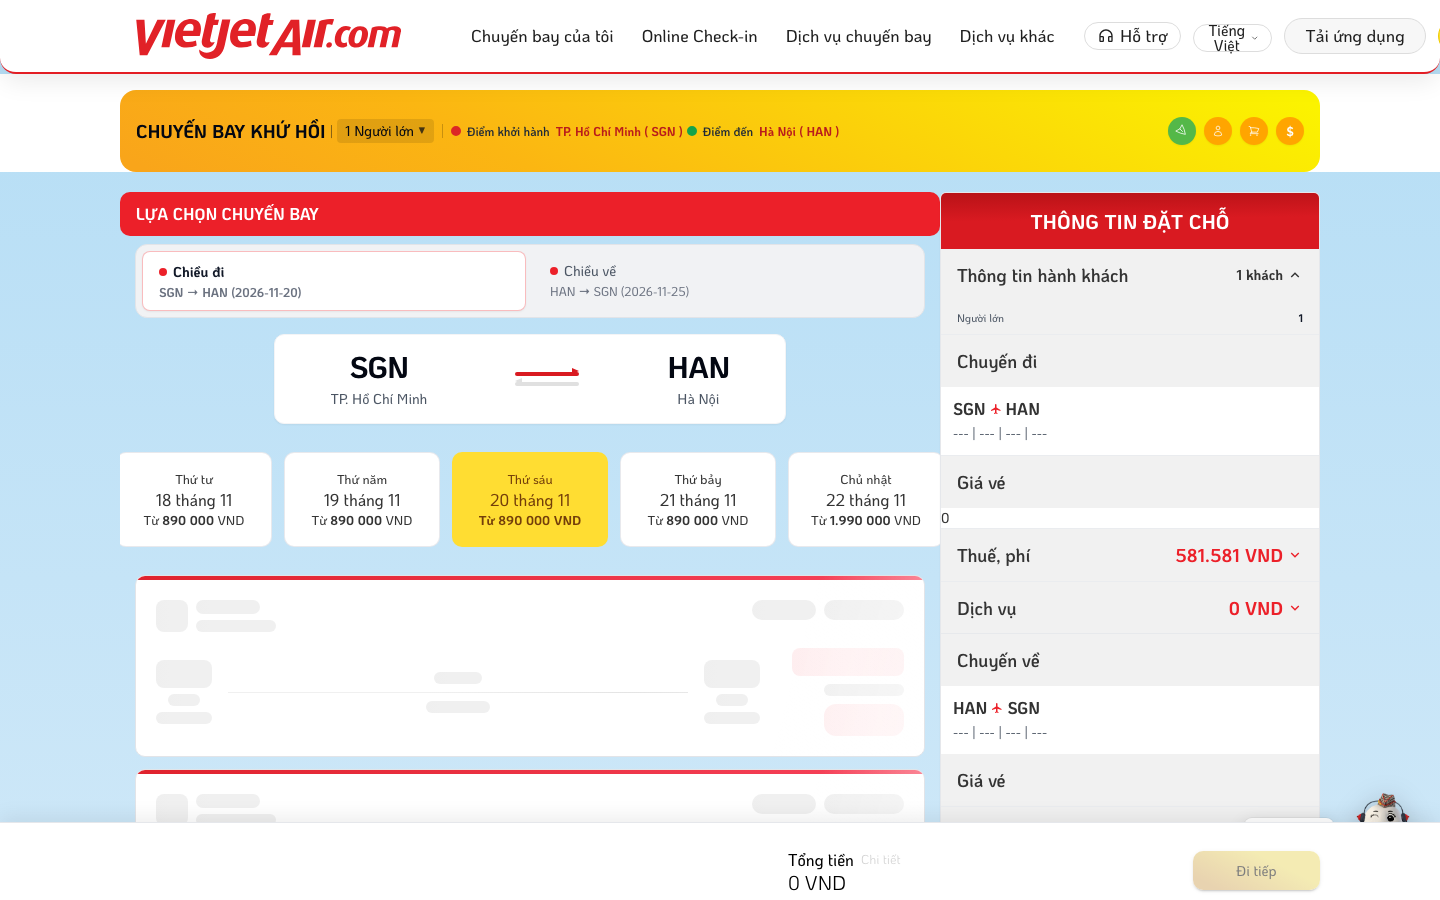
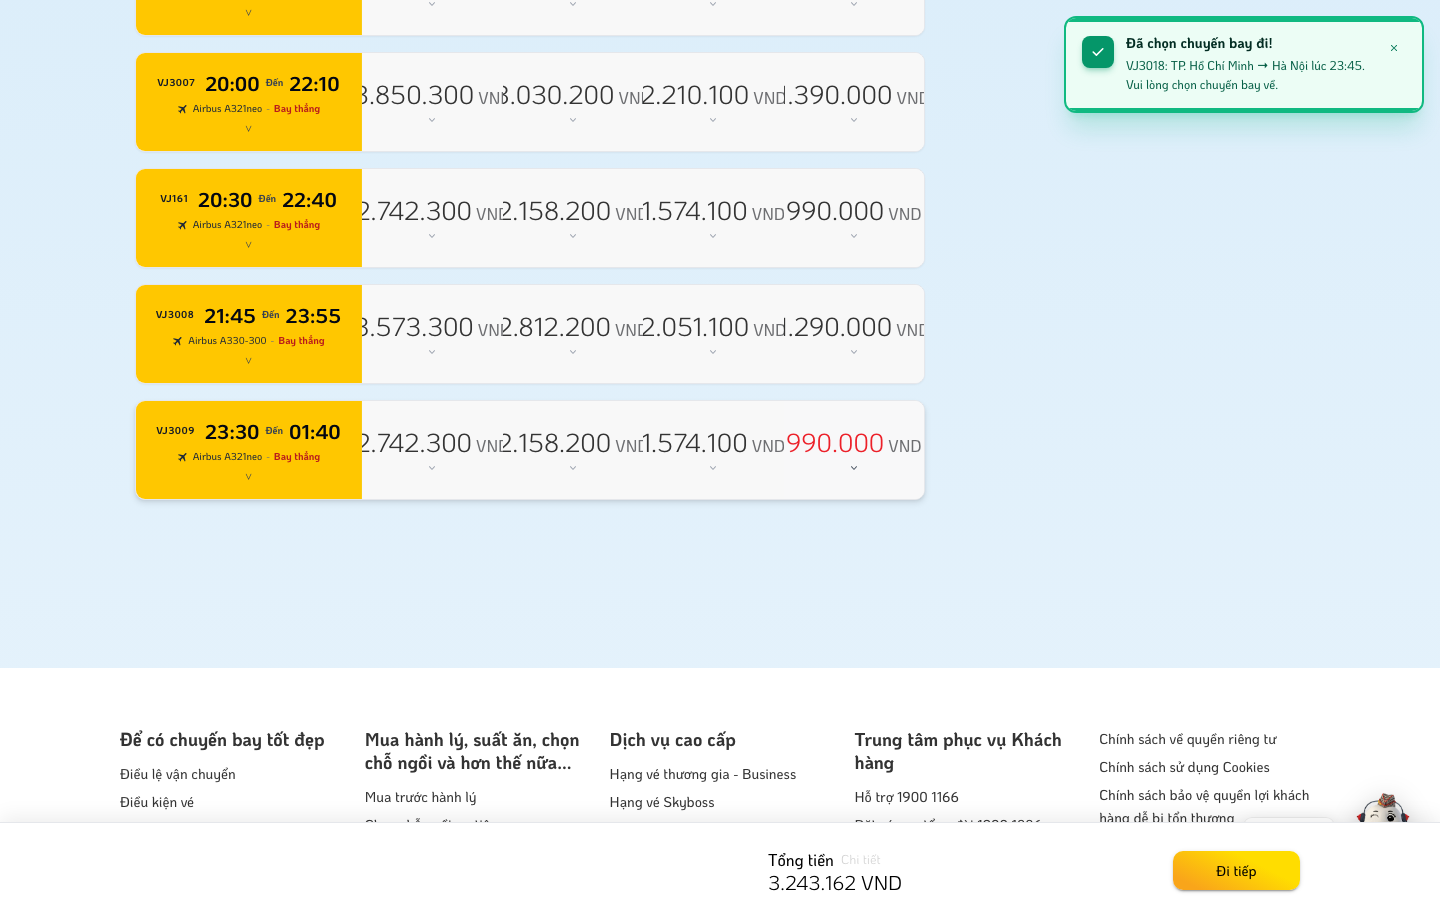
fix(booking): resolve passenger input overlap, mobile fare wrap, and step validation in round-trip flow

diff --git a/vietjetsim-main/src/features/bookings/components/PassengerInfoStep.tsx b/vietjetsim-main/src/features/bookings/components/PassengerInfoStep.tsx
@@ -117,11 +117,9 @@ export default function PassengerInfoStep({
   });
 
   const updatePassenger = (i: number, field: keyof Passenger, value: string) => {
-    setPassengers((prev) => {
-      const next = prev.map((p, idx) => (idx === i ? { ...p, [field]: value } : p));
-      onPassengersChange?.(next);
-      return next;
-    });
+    const next = passengers.map((p, idx) => (idx === i ? { ...p, [field]: value } : p));
+    setPassengers(next);
+    onPassengersChange?.(next);
   };
 
   const addPassenger = (type: PassengerType) => {
@@ -405,7 +403,7 @@ export default function PassengerInfoStep({
                       <div>
                         <UnderlineField
                           id={`passenger-${i}-name`}
-                          label="Họ và tên"
+                          label="Họ (Theo giấy tờ tuỳ thân)"
                           filled={!!p.name}
                         >
                           <input
@@ -414,7 +412,6 @@ export default function PassengerInfoStep({
                             type="text"
                             value={p.name}
                             onChange={(e) => updatePassenger(i, 'name', e.target.value)}
-                            placeholder="Họ (Theo giấy tờ tuỳ thân)"
                             required
                           />
                         </UnderlineField>
@@ -450,7 +447,7 @@ export default function PassengerInfoStep({
                       <UnderlineField
                         id={`passenger-${i}-dob`}
                         label="Ngày sinh (DD/MM/YYYY)"
-                        filled={!!p.dob}
+                        filled
                       >
                         <input
                           id={`passenger-${i}-dob`}
@@ -622,7 +619,6 @@ export default function PassengerInfoStep({
                               event.target.value.toUpperCase().replace(/\s/g, '')
                             )
                           }
-                          placeholder="SJxxxxxxxxxx"
                           pattern="SJ[0-9]{8,10}"
                           title="Mã SkyJoy gồm SJ và 8–10 chữ số"
                         />

diff --git a/vietjetsim-main/src/test/vietjet-parity-layout.test.ts b/vietjetsim-main/src/test/vietjet-parity-layout.test.ts
@@ -36,9 +36,7 @@ function ruleValue(selector: string, property: string): string {
   while ((match = ruleRe.exec(CSS_RULES)) !== null) {
     const selectors = match[1].split(',').map((part) => part.trim());
     if (!selectors.includes(selector)) continue;
-    const propertyMatch = match[2].match(
-      new RegExp(`(?:^|;)\\s*${property}:\\s*([^;]+)`)
-    );
+    const propertyMatch = match[2].match(new RegExp(`(?:^|;)\\s*${property}:\\s*([^;]+)`));
     if (!propertyMatch) {
       throw new Error(`Rule ${selector} không khai báo ${property}`);
     }
@@ -71,9 +69,7 @@ describe('Token popup SkyID (622×664) — đo 14/11/2026', () => {
 
   it('gradient băng đỏ khớp site thật', () => {
     const gradient = token('vj-popup-header-gradient').replace(/\s+/g, '');
-    expect(gradient).toBe(
-      'linear-gradient(rgb(217,26,33)34.8%,rgb(171,3,3)182.34%)'
-    );
+    expect(gradient).toBe('linear-gradient(rgb(217,26,33)34.8%,rgb(171,3,3)182.34%)');
   });
 });
 
@@ -109,7 +105,9 @@ describe('Ô nhập tra cứu (underline MUI 40px) — đo 14/11/2026', () => {
   });
 
   it('focus đổi gạch chân thành 2px đỏ thương hiệu', () => {
-    expect(ruleValue('.vj-lookup-field .vj-lookup-input:focus', 'border-bottom')).toContain('2px solid');
+    expect(ruleValue('.vj-lookup-field .vj-lookup-input:focus', 'border-bottom')).toContain(
+      '2px solid'
+    );
   });
 });
 

diff --git a/vietjetsim-main/src/app/chuyen-bay-cua-toi/page.tsx b/vietjetsim-main/src/app/chuyen-bay-cua-toi/page.tsx
@@ -498,10 +498,7 @@ export default function MyFlightsPage() {
                             </button>
                             <p className="text-sm leading-[20px] text-[var(--vj-text)]">
                               Bạn đã biết về Vietjet SkyJoy?{' '}
-                              <Link
-                                href="/dang-ky"
-                                className="vj-skyjoy-register-link"
-                              >
+                              <Link href="/dang-ky" className="vj-skyjoy-register-link">
                                 Đăng ký ngay
                               </Link>
                             </p>
@@ -606,10 +603,7 @@ export default function MyFlightsPage() {
                             </button>
                             <p className="text-sm leading-[20px] text-[var(--vj-text)]">
                               Bạn đã biết về Vietjet SkyJoy?{' '}
-                              <Link
-                                href="/dang-ky"
-                                className="vj-skyjoy-register-link"
-                              >
+                              <Link href="/dang-ky" className="vj-skyjoy-register-link">
                                 Đăng ký ngay
                               </Link>
                             </p>

diff --git a/vietjetsim-main/src/app/tim-ve/components/FlightBookingResultsWrapper.tsx b/vietjetsim-main/src/app/tim-ve/components/FlightBookingResultsWrapper.tsx
@@ -187,7 +187,6 @@ export default function FlightBookingResultsWrapper({
 
   const handleContinue = useCallback(() => {
     setContinueSignal((n) => n + 1);
-    setBookingStep((prev) => prev + 1);
   }, []);
 
   const [outboundFrom, outboundTo] = trip.split('→').map((part) => part.trim());
@@ -546,7 +545,9 @@ export default function FlightBookingResultsWrapper({
               khối giữa — tức nó thẳng hàng với dòng "Tổng tiền", lệch
               phải ~73px, KHÔNG nằm giữa hai khối. */}
           <div className="vj-total-bar hidden sm:block fixed bottom-0 left-0 right-0 z-[60] border-t border-gray-200 shadow-[0_-4px_20px_rgba(0,0,0,0.08)]">
-            <div className="vj-total-bar-inner mx-auto max-w-[1200px] pl-[10px]">
+            {/* Site thật: container 1200px (x=120), padding trong `10px`, lề phải
+                `20px` → cụm "Tổng tiền" tại x=769, nút "Đi tiếp" 127×39 tại x=1173. */}
+            <div className="vj-total-bar-inner mx-auto max-w-[1200px] pl-[10px] pr-[20px]">
               {/* Thanh trống giữ layout 3 cột như site thật */}
               <div aria-hidden="true" className="flex-1" />
               <div className="relative w-[405px] shrink-0">

diff --git a/vietjetsim-main/src/features/flights/components/FlightResultsStep.tsx b/vietjetsim-main/src/features/flights/components/FlightResultsStep.tsx
@@ -1400,14 +1400,14 @@ export default function FlightResultsStep({
                             {/* Giá vé: số tiền 26px/400 JambonoMedium #333333,
                                 mã tiền tệ 16px/500 #6D6E71 (đo 13/11/2026). */}
                             <span
-                              className={`text-xl5 font-jambono font-normal leading-none whitespace-nowrap transition-colors ${
+                              className={`text-xs sm:text-base lg:text-xl5 font-jambono font-normal leading-none whitespace-nowrap transition-colors ${
                                 isSelected
                                   ? 'text-primary'
                                   : 'text-vj-text group-hover:text-primary'
                               }`}
                             >
                               {fc.price.toLocaleString('vi-VN')}
-                              <span className="text-base font-medium text-vj-currency-gray ml-1">
+                              <span className="hidden sm:inline text-xs sm:text-base font-medium text-vj-currency-gray ml-0.5 sm:ml-1">
                                 VND
                               </span>
                             </span>

diff --git a/vietjetsim-main/src/app/lam-thu-tuc/page.tsx b/vietjetsim-main/src/app/lam-thu-tuc/page.tsx
@@ -361,10 +361,7 @@ function CheckInContent({ prefillBookingId }: { prefillBookingId: string }) {
                       </button>
                       <p className="text-sm leading-[20px] text-[var(--vj-text)]">
                         Bạn đã biết về Vietjet SkyJoy?{' '}
-                        <Link
-                          href="/dang-ky"
-                          className="vj-skyjoy-register-link"
-                        >
+                        <Link href="/dang-ky" className="vj-skyjoy-register-link">
                           Đăng ký ngay
                         </Link>
                       </p>

diff --git a/vietjetsim-main/src/test/vietjet-parity-popup.test.tsx b/vietjetsim-main/src/test/vietjet-parity-popup.test.tsx
@@ -49,12 +49,9 @@ describe('PopupFrame', () => {
 
     const nav = screen.getByRole('navigation', { name: 'Dịch vụ nhanh' });
     expect(nav).toBeInTheDocument();
-    [
-      'Đặt chuyến bay',
-      'Chuyến bay của tôi',
-      'Mua hành lý, chỗ ngồi...',
-      'Check-in',
-    ].forEach((label) => expect(screen.getByText(label)).toBeInTheDocument());
+    ['Đặt chuyến bay', 'Chuyến bay của tôi', 'Mua hành lý, chỗ ngồi...', 'Check-in'].forEach(
+      (label) => expect(screen.getByText(label)).toBeInTheDocument()
+    );
   });
 });
 

diff --git a/vietjetsim-main/src/features/bookings/components/FlightBookingClient.tsx b/vietjetsim-main/src/features/bookings/components/FlightBookingClient.tsx
@@ -204,7 +204,12 @@ function FlightBookingClientInner({
         }
         goStepRef.current(2);
       } else if (stateRef.current.step === 2) {
-        goStepRef.current(3);
+        const form = document.getElementById('passenger-info-form') as HTMLFormElement | null;
+        if (form) {
+          form.requestSubmit();
+        } else {
+          goStepRef.current(3);
+        }
       }
     }
   }, [continueSignal, toast]);
